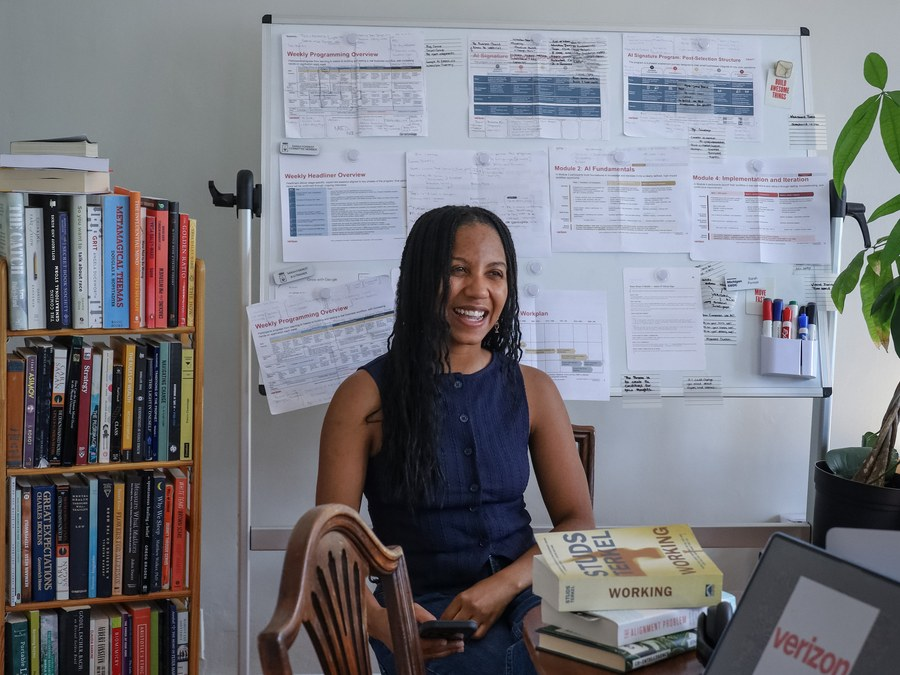
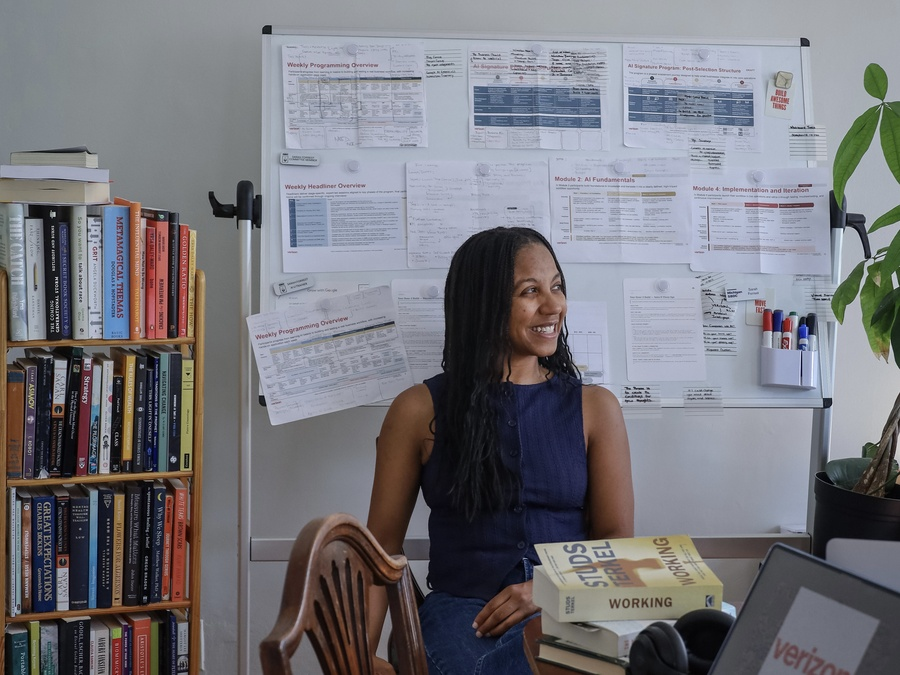
Update profile image and timeline cue

diff --git a/index.html b/index.html
@@ -1746,11 +1746,11 @@
         }
 
         .genai-timeline-shell:not(.has-active-detail) .genai-timeline-node:first-child {
-            animation: genaiTapCue 3.4s ease-in-out 1s infinite;
+            animation: genaiTapCue 3.4s ease-in-out infinite;
         }
 
         .genai-timeline-shell:not(.has-active-detail) .genai-timeline-node:first-child::before {
-            animation: genaiDotCue 3.4s ease-in-out 1s infinite;
+            animation: genaiDotCue 3.4s ease-in-out infinite;
         }
 
         .genai-year {
@@ -2377,15 +2377,7 @@
         }
 
         .profile-inspector-frame::before {
-            content: '';
-            position: absolute;
-            inset: 0;
-            z-index: 2;
-            pointer-events: none;
-            background:
-                linear-gradient(135deg, rgba(255, 255, 255, 0.1), transparent 28%),
-                linear-gradient(180deg, rgba(4, 14, 30, 0.02), rgba(4, 14, 30, 0.06));
-            mix-blend-mode: screen;
+            content: none;
         }
 
         .profile-inspector-image {
@@ -2547,47 +2539,57 @@
         }
 
         .detection-person {
-            left: 37%;
-            top: 36%;
-            width: 25%;
-            height: 52%;
-        }
-
-        .detection-whiteboard {
-            left: 35%;
-            top: 4%;
-            width: 48%;
-            height: 48%;
-        }
-
-        .detection-books {
-            left: 13%;
-            top: 28%;
-            width: 18%;
+            left: 43%;
+            top: 32%;
+            width: 27%;
             height: 66%;
         }
 
+        .detection-whiteboard {
+            left: 29%;
+            top: 2%;
+            width: 67%;
+            height: 68%;
+        }
+
+        .detection-books {
+            left: 0.5%;
+            top: 17%;
+            width: 25%;
+            height: 82%;
+        }
+
         .detection-laptop {
-            left: 72%;
-            top: 72%;
-            width: 18%;
+            left: 77%;
+            top: 76%;
+            width: 23%;
             height: 23%;
             z-index: 4;
         }
 
         .detection-plant {
-            left: 78%;
-            top: 8%;
-            width: 15%;
-            height: 58%;
+            left: 89%;
+            top: 4%;
+            width: 11%;
+            height: 74%;
         }
 
         .detection-materials {
-            left: 55%;
-            top: 57%;
+            left: 58%;
+            top: 71%;
             width: 24%;
-            height: 24%;
+            height: 21%;
             z-index: 3;
+        }
+
+        .detection-person .detection-label {
+            top: 36%;
+        }
+
+        .detection-plant .detection-label {
+            left: auto;
+            right: 0.7rem;
+            top: 2.15rem;
         }
 
         .profile-inspector-caption {
@@ -2771,61 +2773,61 @@
             .detection-label {
                 left: 0.42rem;
                 top: 0.42rem;
-                max-width: 13.5ch;
-                padding: 0.24rem 0.34rem;
-                font-size: 0.42rem;
+                max-width: none;
+                padding: 0.22rem 0.32rem;
+                font-size: 0.36rem;
                 line-height: 1;
                 letter-spacing: 0.045em;
-                white-space: normal;
+                white-space: nowrap;
                 border-color: rgba(255, 255, 255, 0.8);
                 background: rgba(7, 20, 38, 0.9);
             }
 
             .detection-person {
-                left: 36%;
-                top: 34%;
+                left: 43%;
+                top: 32%;
                 width: 27%;
-                height: 53%;
+                height: 66%;
             }
 
             .detection-whiteboard {
-                left: 32%;
-                top: 4%;
-                width: 51%;
-                height: 49%;
+                left: 29%;
+                top: 2%;
+                width: 67%;
+                height: 68%;
             }
 
             .detection-books {
-                left: 3%;
-                top: 29%;
-                width: 29%;
-                height: 64%;
+                left: 0.5%;
+                top: 17%;
+                width: 25%;
+                height: 82%;
             }
 
             .detection-laptop {
-                left: 72%;
-                top: 72%;
-                width: 24%;
-                height: 22%;
+                left: 77%;
+                top: 76%;
+                width: 23%;
+                height: 23%;
             }
 
             .detection-plant {
-                left: 75%;
-                top: 14%;
-                width: 22%;
-                height: 52%;
+                left: 89%;
+                top: 4%;
+                width: 11%;
+                height: 74%;
             }
 
             .detection-plant .detection-label {
-                top: 1.85rem;
-                left: 0.32rem;
+                top: 1.65rem;
+                right: 0.32rem;
             }
 
             .detection-materials {
-                left: 55%;
-                top: 58%;
-                width: 25%;
-                height: 22%;
+                left: 58%;
+                top: 71%;
+                width: 24%;
+                height: 21%;
             }
 
             .profile-inspector-caption {
@@ -2848,17 +2850,17 @@
             }
 
             .detection-label {
-                max-width: 13ch;
-                padding: 0.2rem 0.3rem;
-                font-size: 0.38rem;
+                max-width: none;
+                padding: 0.18rem 0.28rem;
+                font-size: 0.34rem;
             }
 
             .detection-person {
-                top: 35%;
+                top: 32%;
             }
 
             .detection-materials .detection-label {
-                max-width: 12ch;
+                max-width: none;
             }
         }
 